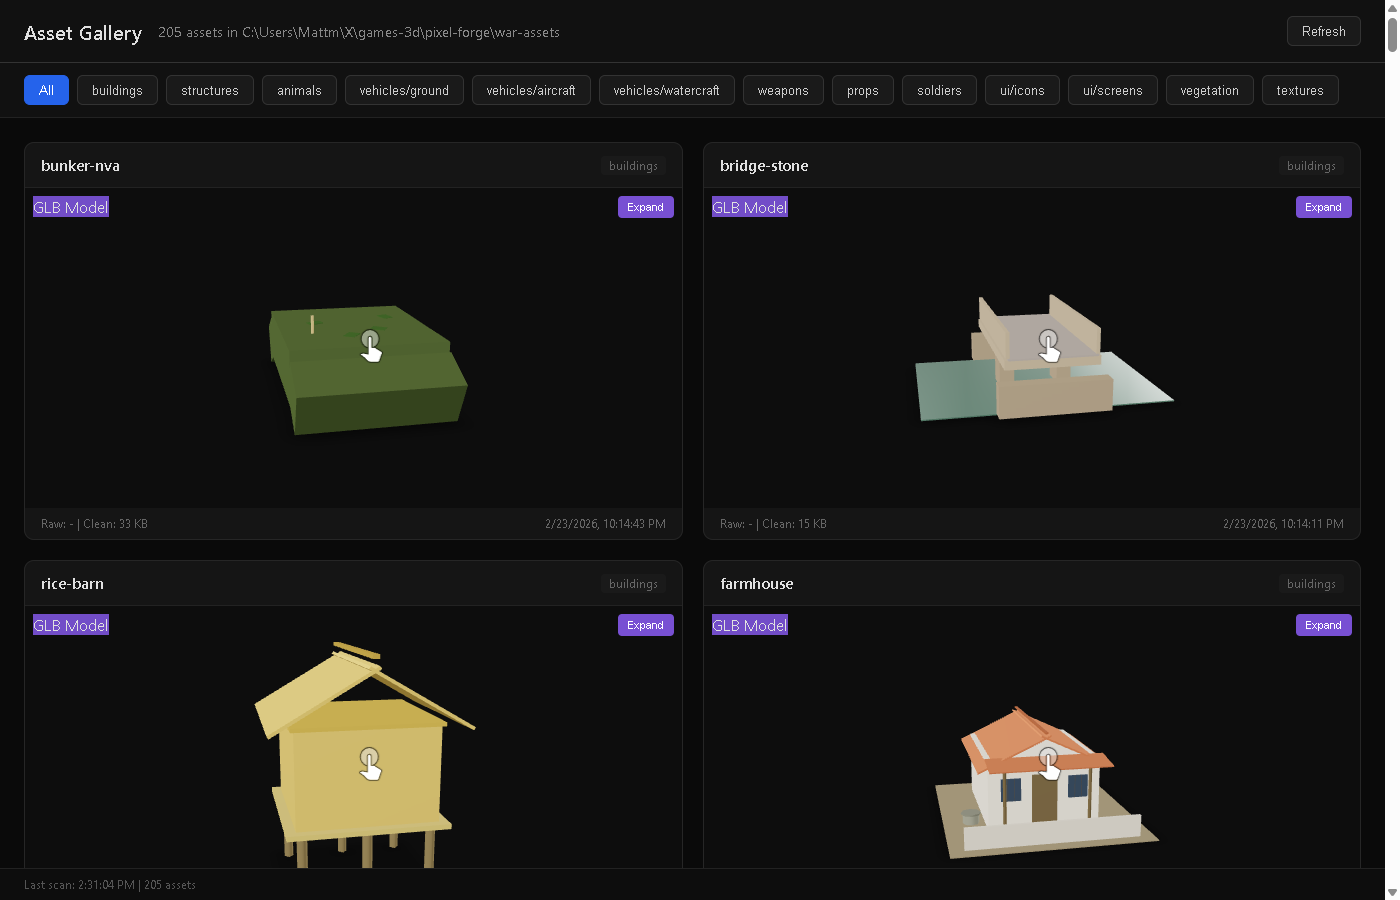
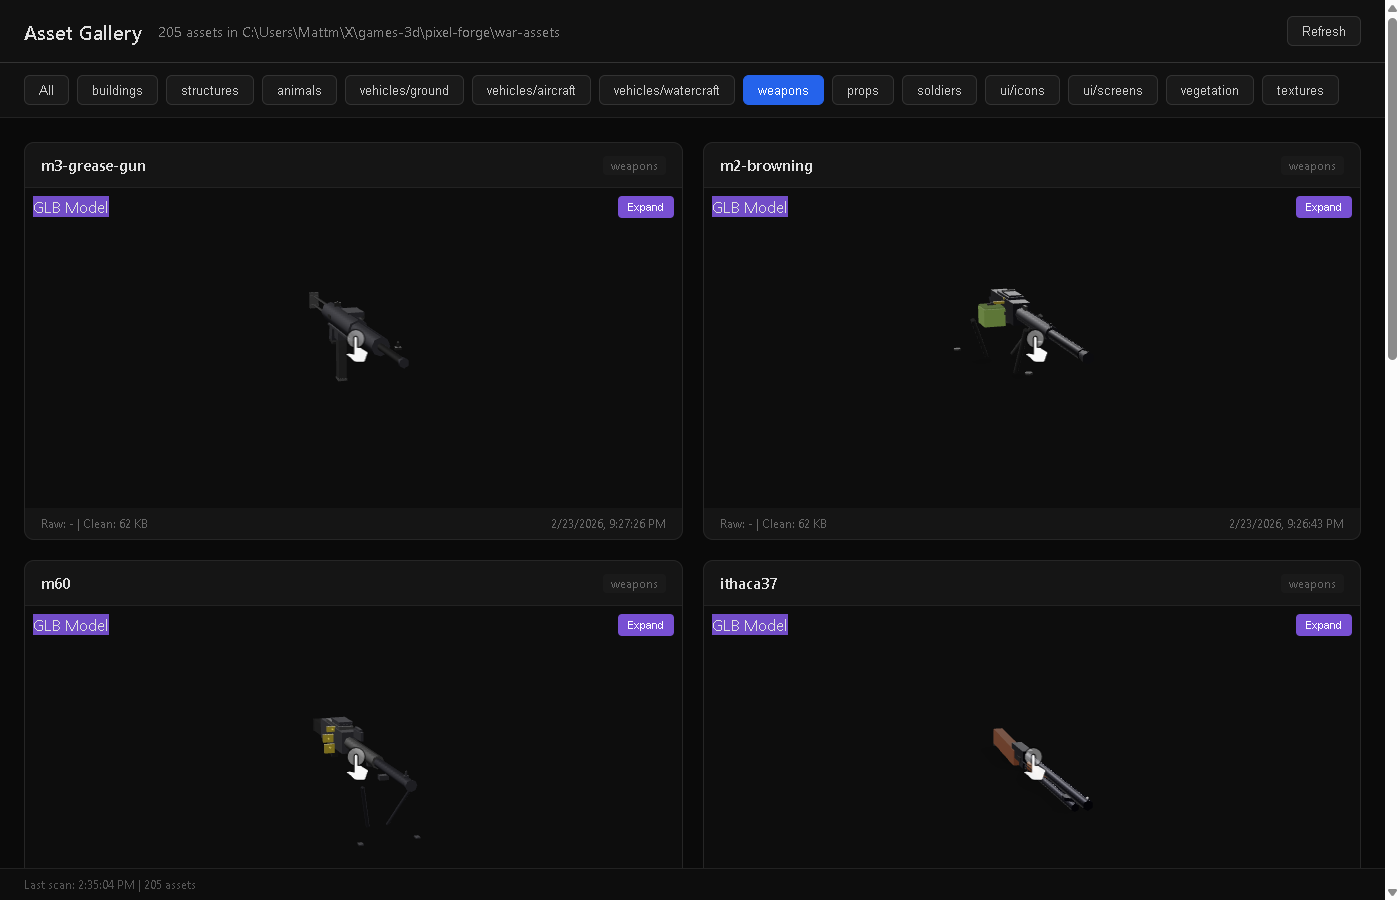
docs: replace gallery screenshot with weapons view

diff --git a/README.md b/README.md
@@ -31,7 +31,7 @@ Build asset pipelines by connecting nodes. Each node handles one step - generati
 
 Browse, compare, and review generated assets. Raw vs clean comparison for sprites, tiled preview for textures, interactive 3D viewer for GLB models.
 
-![Asset Gallery - 3D Models](docs/screenshots/gallery.png)
+![Asset Gallery - Weapons](docs/screenshots/gallery.png)
 
 ### Generated Assets
 
